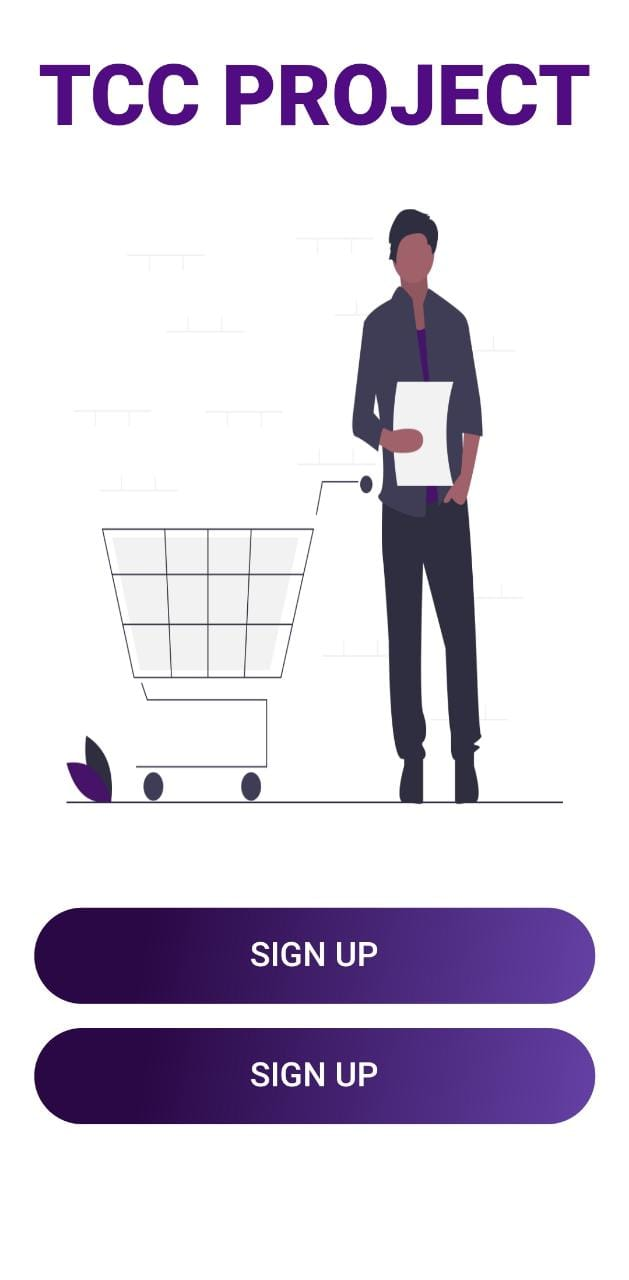
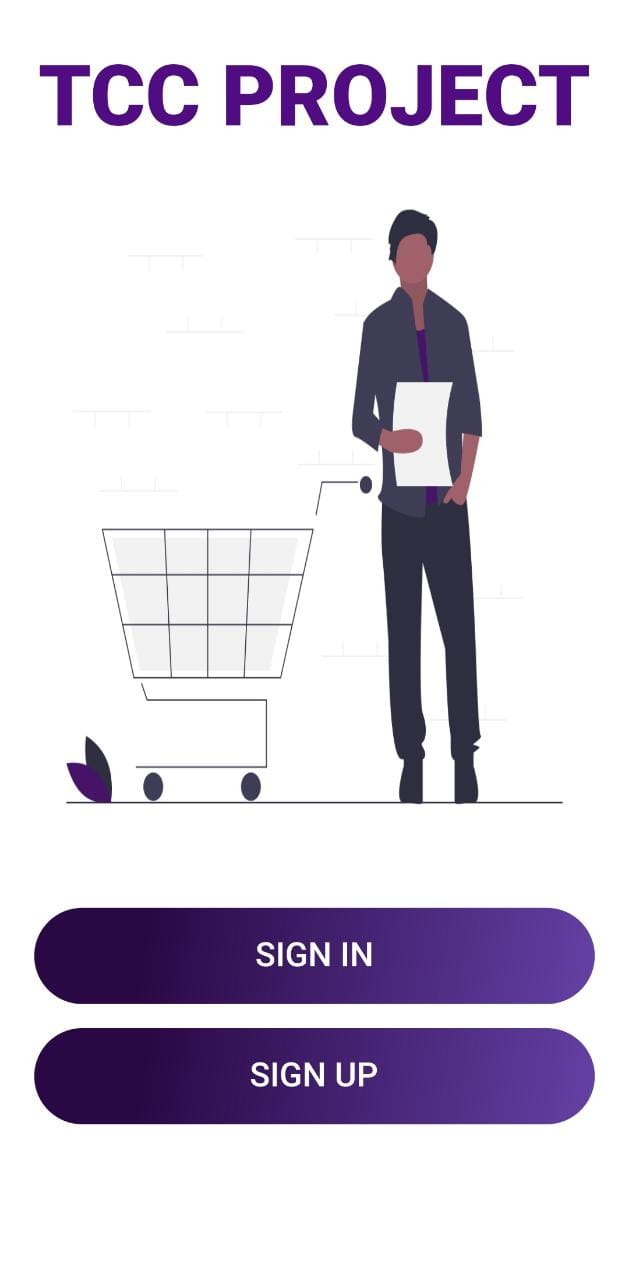
Tela

diff --git a/lib/screen/meusDados.dart b/lib/screen/meusDados.dart
@@ -1,0 +1,42 @@
+import 'package:flutter/material.dart';
+
+class MyData extends StatelessWidget {
+  const MyData({Key? key}) : super(key: key);
+
+  @override
+  Widget build(BuildContext context) {
+    return Scaffold(
+      resizeToAvoidBottomInset: false,
+      backgroundColor: Colors.white,
+      body: Column(
+        children: <Widget>[
+          Padding(
+            padding: const EdgeInsets.only(top: 150.0, left: 15.0, right: 15.0),
+            child: TextButton.icon(
+              onPressed: () => {},
+              icon: const Icon(Icons.settings, color: Colors.black),
+              label: const Text(
+                'Configurações',
+                style: TextStyle(
+                  color: Colors.black,
+                  fontSize: 25,
+                ),
+              ),
+
+            ),
+          ),
+          Container(
+            height: 350,
+            decoration: const BoxDecoration(
+              image: DecorationImage(
+                image: AssetImage(
+                    'assetes/images/undraw_Profile_data_re_v81r.png'),
+                fit: BoxFit.fill,
+              ),
+            ),
+          ),
+        ],
+      ),
+    );
+  }
+}

diff --git a/lib/models/in_upBottom.dart b/lib/models/in_upBottom.dart
@@ -24,11 +24,11 @@ class SignIn_UpButtonWidget extends StatelessWidget {
       child: MaterialButton(
         highlightColor: Colors.transparent,
         splashColor: Colors.deepPurple,
-        child: const Padding(
-          padding: EdgeInsets.symmetric(vertical: 10.0, horizontal: 42.0),
+        child: Padding(
+          padding: const EdgeInsets.symmetric(vertical: 10.0, horizontal: 42.0),
           child: Text(
-            "SIGN UP",
-            style: TextStyle(
+            text,
+            style: const TextStyle(
               color: Colors.white,
               fontSize: 20.0,
             ),

diff --git a/lib/main.dart b/lib/main.dart
@@ -1,4 +1,5 @@
 import 'package:flutter/material.dart';
+import 'package:tcc/screen/meusDados.dart';
 import 'package:tcc/signin_signup/first_screen.dart';
 
 import 'package:tcc/signin_signup/signin.dart';
@@ -22,7 +23,7 @@ class MyApp extends StatelessWidget {
       theme: ThemeData(
         primarySwatch: Colors.blue,
       ),
-      home: const First(),
+      home: const MyData(),
     );
   }
 }
